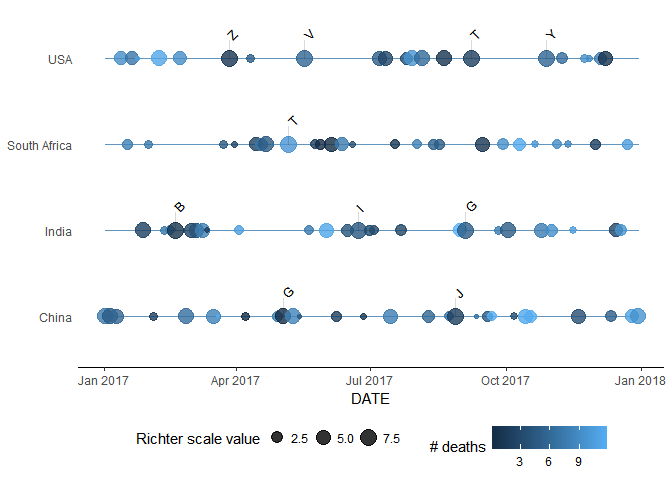
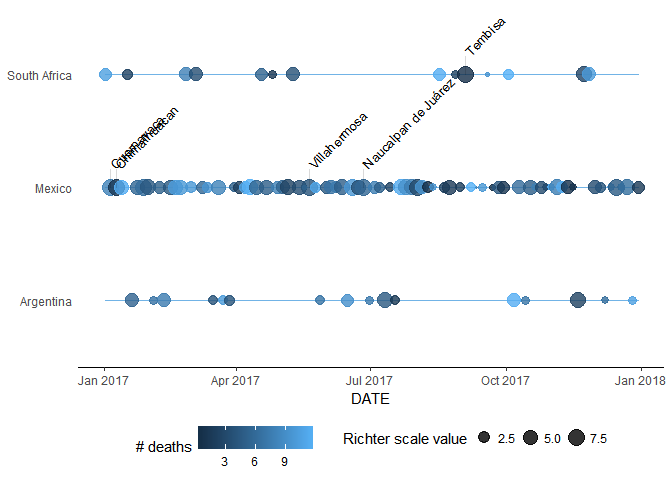
Readme.md is complete.

diff --git a/README.md b/README.md
@@ -53,26 +53,24 @@ Generate sample data:
 library(magrittr)
 library(quake)
 library(ggplot2)
+library(data.table)
 
-n         <- 100
-countries <- c("USA", "China", "India", "South Africa")
+n        <- 100 # no samples
+# get a list of countries and cities.
+cty_file <- system.file("extdata", "countries_cities.csv", package = "quake")
+ctry_cty <- (fread(cty_file))[sample(1:.N, size = n, replace = TRUE), ]
 
 # Sample data
-dt <- data.frame(
+dt <- data.table(
   date      = as.Date('2017-01-01') + seq(1, 365, 365/n),
-  country   = factor(sample(countries, replace = TRUE, size = n)),
-  location  = sample(LETTERS, n, replace = TRUE),
+  country   = factor(ctry_cty$Country),
+  location  = factor(ctry_cty$City   ),
   intensity = runif(n)*10,
   deaths    = runif(n)*12
 )
 ```
 
-Plot the sample data with
-
--   date on the x axis,
--   country on the y axis,
--   quake magnitude shown using marker size,
--   the number of associated deaths indicated by colour
+Plot the sample data with: \* date on the x axis, \* country on the y axis, \* quake magnitude shown using marker size, \* the number of associated deaths indicated by colour
 
 ``` r
 dt %>%
@@ -93,21 +91,21 @@ dt %>%
   theme_timeline_with_y_axis_text
 ```
 
-![](README-plot_data-1.png) Notice `theme_timeline_with_y_axis_text` theme add-on, which is one of two themes provided by the `quake` package, the other being `theme_timeline`, which turns off y-axis text.
+![](README-plot_data-1.png) Notice `theme_timeline_with_y_axis_text` theme add-on, which is one of two themes provided by the `quake` package, the other being `theme_timeline`, which turns off all y-axis graphics inclusing the text.
 
-Also notice that by adding `y = country`, a timeline, separated by country is produce. Without this, optional aesthetic, all quakes will be plotted on a single line.
+Also notice that by adding `y = country`, a timeline, separated by country, is produceb. Without this optional aesthetic, all quakes will be plotted on a single timeline.
 
 Adding Labels to A Quake Timeline
 ---------------------------------
 
-The example above shows a timeline without labels. That is, the timeline doesn't shown the actual locations at which the quakes happened. The `geom_timeline_label` solves this problem.
+The example above shows a timeline without labels. That is, the timeline doesn't show the actual locations at which the quakes happened. The `geom_timeline_label` solves this problem.
 
-The example below shows a timeline, plotting the same data, but with labels.
+The example below shows a timeline, plotting the same data, but with labels added by `geom_timeline_label`.
 
 ``` r
 dt %>%
   ggplot() +
-  geom_timeline(
+  geom_timeline(       # plot the timeline
     aes(
       x    = date, 
       y    = country, 
@@ -116,14 +114,14 @@ dt %>%
     ), 
     alpha = 0.8
   ) + 
-  geom_timeline_label(
+  geom_timeline_label( # add labels.
     aes(
-      label = location ,
-      x     = date     ,
-      y     = country  ,
-      size  = intensity
+      label = location , # label text
+      x     = date     , # x location
+      y     = country  , # level to add label at 
+      size  = intensity  #
     ),
-    n_max = 10
+    n_max = 5 # only label 5 most intense quakes
   ) +
   labs(x = "DATE")                                     +
   scale_size_continuous (name = "Richter scale value") +
@@ -136,3 +134,24 @@ dt %>%
 
 Mapping Quakes
 --------------
+
+`quake` also aids visualization by plotting earthquake locations on a map. The code below: \* reads NOAA data, \* cleans it, \* filters for Mexico, \* adds popup text lables using the `eq_create_label` function and \* creates an interactive map with these labels.
+
+``` r
+library(quake)
+library(readr)
+library(dplyr)
+library(lubridate)
+
+data_file_name <- system.file("extdata", "earthquakes.tsv.gz", package = "quake")
+
+read_delim(data_file_name, delim = "\t") %>%
+  eq_clean_data()                                       %>%
+  filter(COUNTRY == "MEXICO" & year(date) >= 2000)      %>%
+  mutate(popup_text = eq_create_label(.))               %>%
+  eq_map(annot_col = "popup_text")
+```
+
+The image below shows sample output, after clicking on one of the quake locations to show it's pop-up detail.
+
+![Sample Plot](./SampleMap.png)
